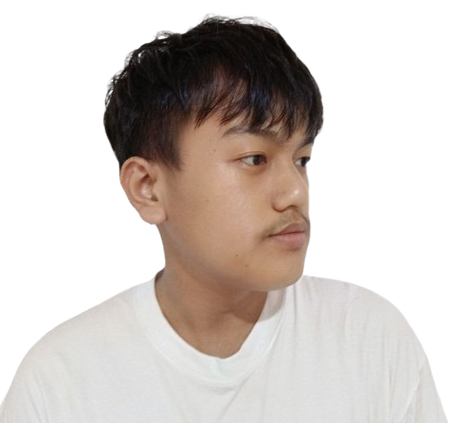
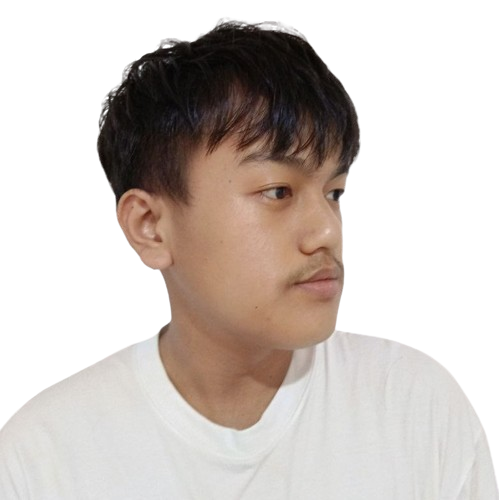
image done

diff --git a/src/pages/Home/index.tsx b/src/pages/Home/index.tsx
@@ -231,7 +231,7 @@ const HomePage = () => {
                     <div>
                       <Image
                         priority={true}
-                        src="/perfil1.png"
+                        src="/perfil.png"
                         width={0}
                         height={0}
                         alt=""
